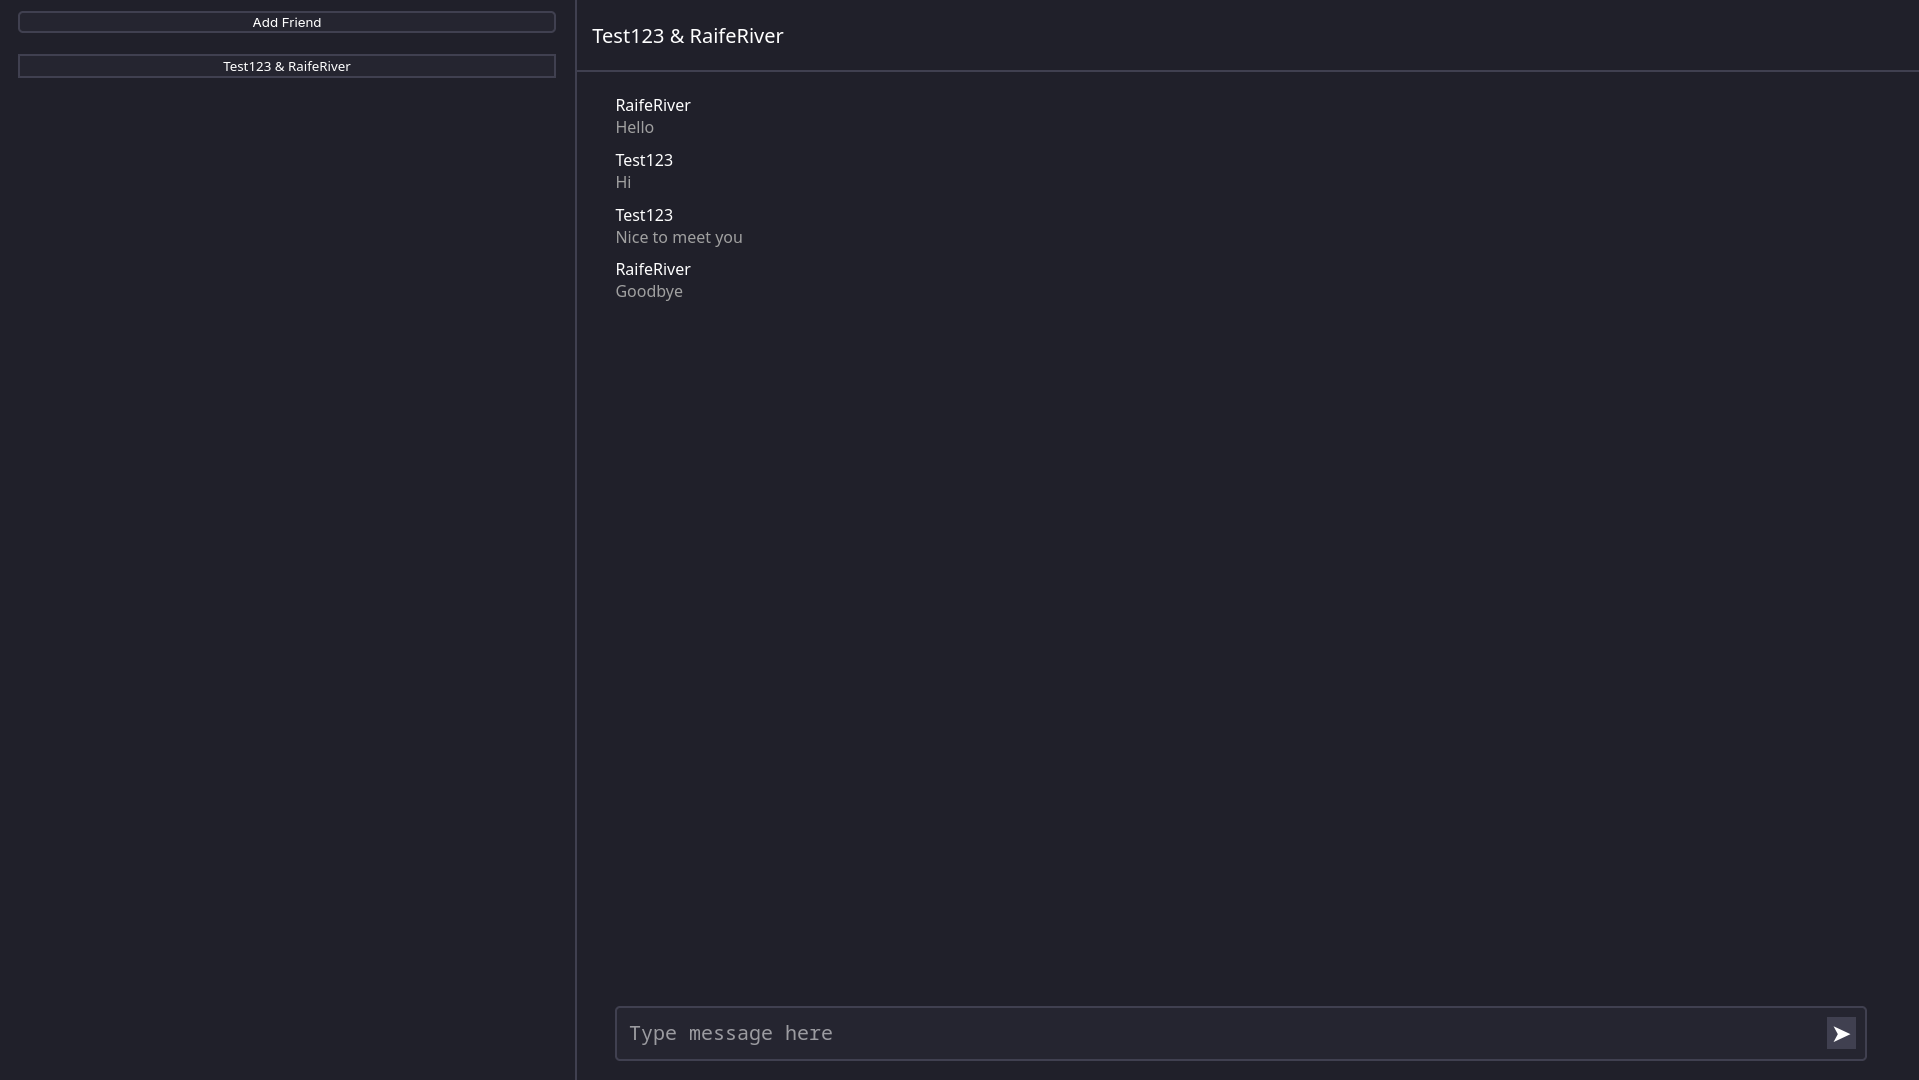
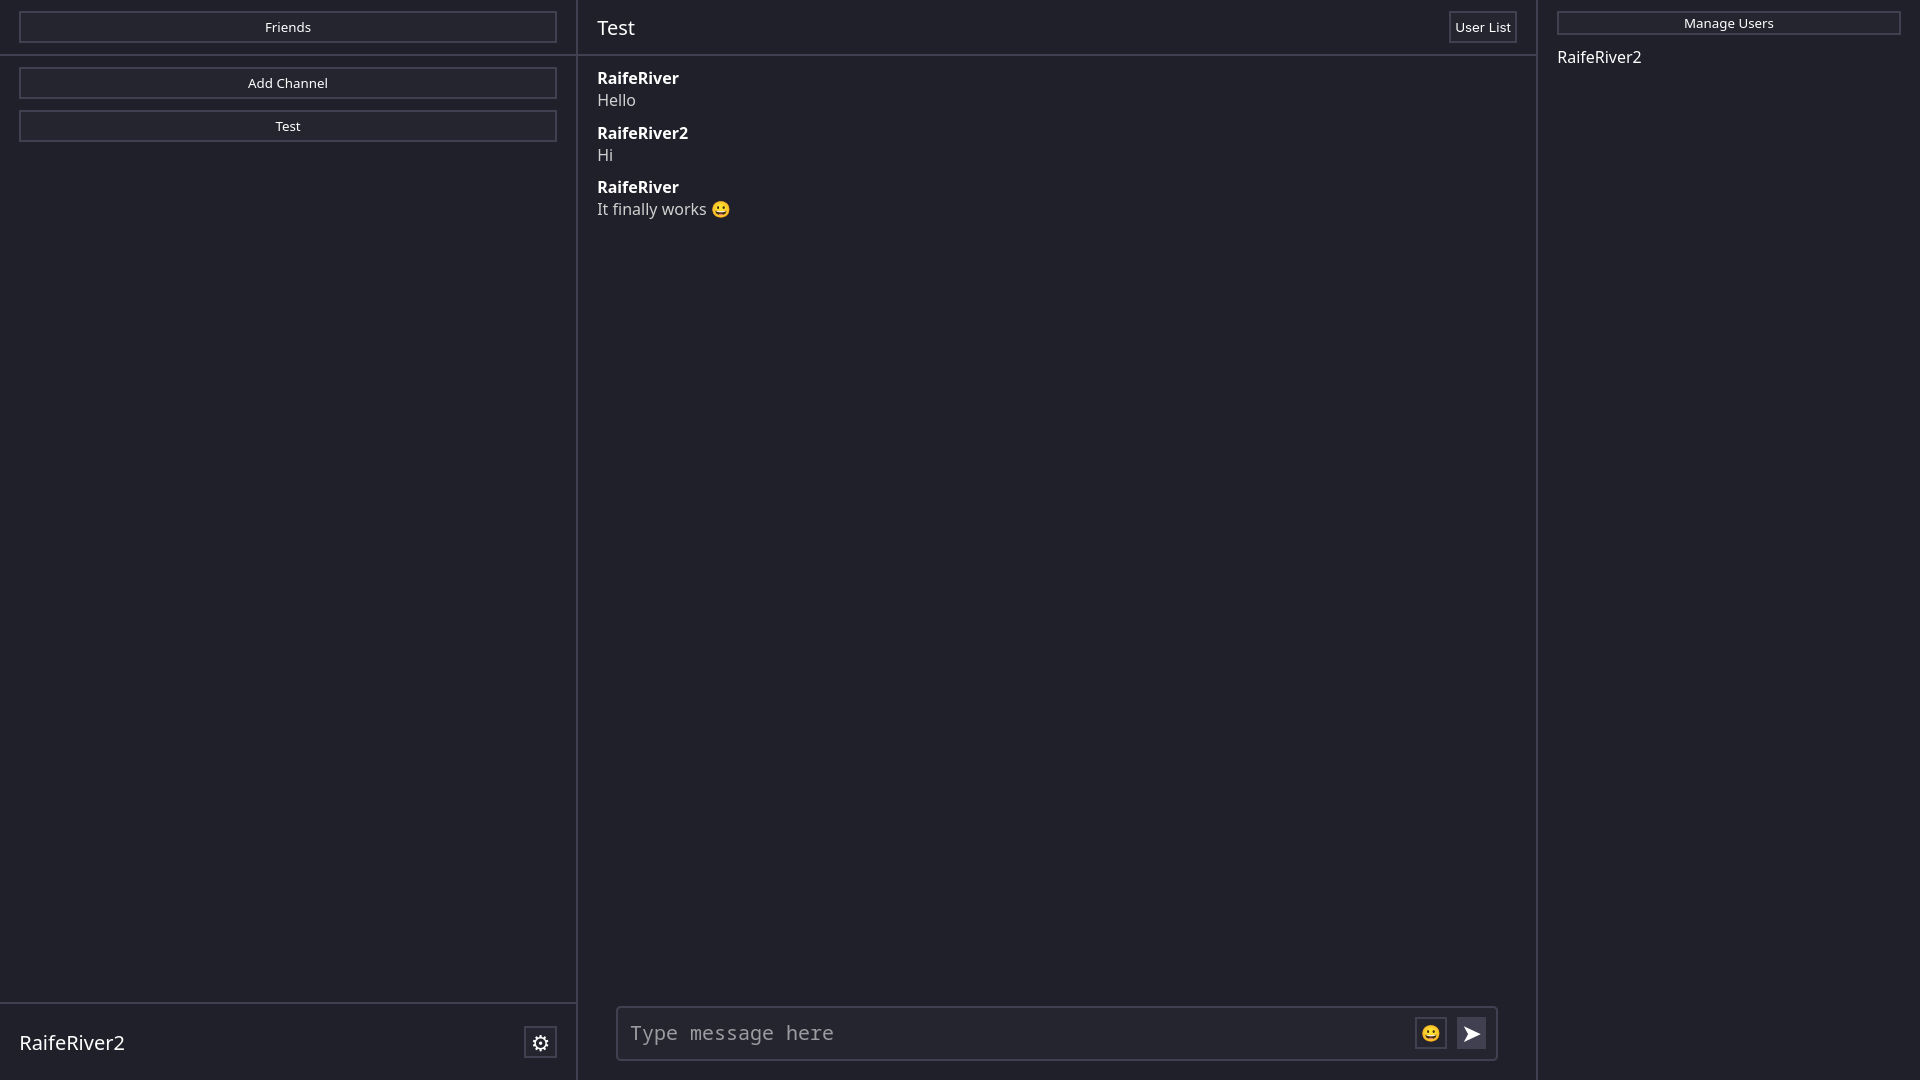
Update README.md

diff --git a/README.md b/README.md
@@ -10,11 +10,13 @@ It is designed for chatting to friends in real time over the internet.
  - Low server requirements
  - Free and open source
  - Either self-hosting or use our server
+ - Channels with multiple users
 
 ## Limitations
  - Requires linux server
  - Only supports web clients
  - No encryption
+ - No permissions, all users can do everything
 
 **NOTE: Zormid is currently WIP and these limitations will likely be addressed soon.**
 
